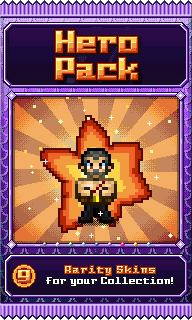
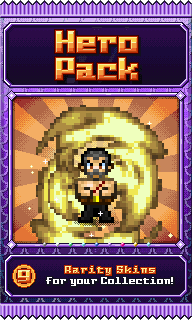
Bartas: Explosion aus Motive.xcf (Sprites-Repo) statt selbstgezeichnet
Effekt-Sprite _effects/Motive/explosion, Aussparung mittig um die Figur, Faktor 2 (Faktor 3 waere groesser als der Kunstrahmen).

Claude-Session: https://claude.ai/code/session_012viCd2rz9NWk7WTwWzK4bi

diff --git a/scripts/booster/build_boosters.py b/scripts/booster/build_boosters.py
@@ -502,39 +502,26 @@ def tpl_mosaic(P, th, mt, pack, v):
     return names
 
 
-def draw_explosion(P, cx, cy, R=66, seed=5):
-    """Pixel-Explosion (Zellen 3x3 wie die Sprites): Zackenstern in vier Gluttönen, dunkle Kante, Funken."""
-    gold = G.metal('gold')
-    rng = np.random.RandomState(seed)
-    n = 13
-    rad = R * (0.62 + 0.38 * rng.rand(n))
-    rad[::2] *= 0.68
-    cxx = (XX // 3) * 3 + 1; cyy = (YY // 3) * 3 + 1
-    ang = np.arctan2(cyy - cy, cxx - cx); dist = np.hypot(cxx - cx, cyy - cy)
-    t = (ang + np.pi) / (2 * np.pi) * n
-    i0 = np.floor(t).astype(int) % n; i1 = (i0 + 1) % n; f = t - np.floor(t)
-    r = rad[i0] * (1 - f) + rad[i1] * f
-    q = dist / np.maximum(r, 1)
-    out = (q <= 1.0) & INNER
-    edge = out & (q > 0.86)
-    dark = pal.hexrgb('#4a0a00')
-    P.paint(G.dilate(out, 2) & ~out & INNER, dark, wt=0.6)
-    for lo, hi, col in ((0.0, 0.3, gold[4]), (0.3, 0.55, gold[0]), (0.55, 0.78, gold[1]), (0.78, 0.9, gold[2]), (0.9, 1.01, gold[3])):
-        P.paint(out & (q >= lo) & (q < hi), col, wt=1.0)
-    # Funken / Trümmer
-    for _ in range(14):
-        a = rng.rand() * 6.283; d = R * (0.95 + 0.5 * rng.rand())
-        x = int(cx + d * np.cos(a)) // 3 * 3; y = int(cy + d * np.sin(a)) // 3 * 3
-        m = G.rect_mask(x, y, x + 3, y + 3) & INNER
-        P.paint(m, [gold[0], gold[1], gold[4]][rng.randint(0, 3)], wt=1.0)
+FX_SPRITES = {'explosion': ('_effects/Motive/explosion/Motive_L1481_explosion_69x84.png', (33, 40))}   # (Datei im Sprites-Repo, Mitte der Aussparung im Sprite)
+
+
+FX_K = 2      # Faktor 3 wäre größer als der ganze Kunstrahmen (Effekt-Sprite 69x84)
+
+
+def draw_fx(P, name, cx, cy):
+    """Effekt-Sprite aus Motive.xcf (Sprites-Repo) in Faktor 2 hinter die Figur setzen; seine Aussparung liegt mittig um die Figur, Überstand wird am Rahmen abgeschnitten."""
+    path, (hx, hy) = FX_SPRITES[name]
+    im = Image.open(os.path.join(C.SPRITES, path)).convert('RGBA')
+    s = G.scaled(im, FX_K)
+    G.blit(P, s, int(cx - hx * FX_K), int(cy - hy * FX_K), wt=0.4, mask_clip=INNER)
 
 
 def tpl_hero(P, th, mt, hero, fx=None, **kw):
     """Ein Held in einheitlicher Pixelgröße auf Strahlenkranz."""
     art_burst(P, th, rot=0.2)
     art_particles(P, th, 11)
-    if fx == 'explosion':
-        draw_explosion(P, IX0 + IW // 2, IY0 + 84)
+    if fx:
+        draw_fx(P, fx, IX0 + IW // 2, IY0 + 126 - 38)      # Mitte der Figur (Sprite ca. 75 px hoch, Füße auf IY0+126)
     if hero in PILE:
         draw_pile(P, hero, IX0 + IW // 2, IY0 + 126)
     place_sprite(P, hero, IX0 + IW // 2, IY0 + 126, shadow=hero not in PILE)
